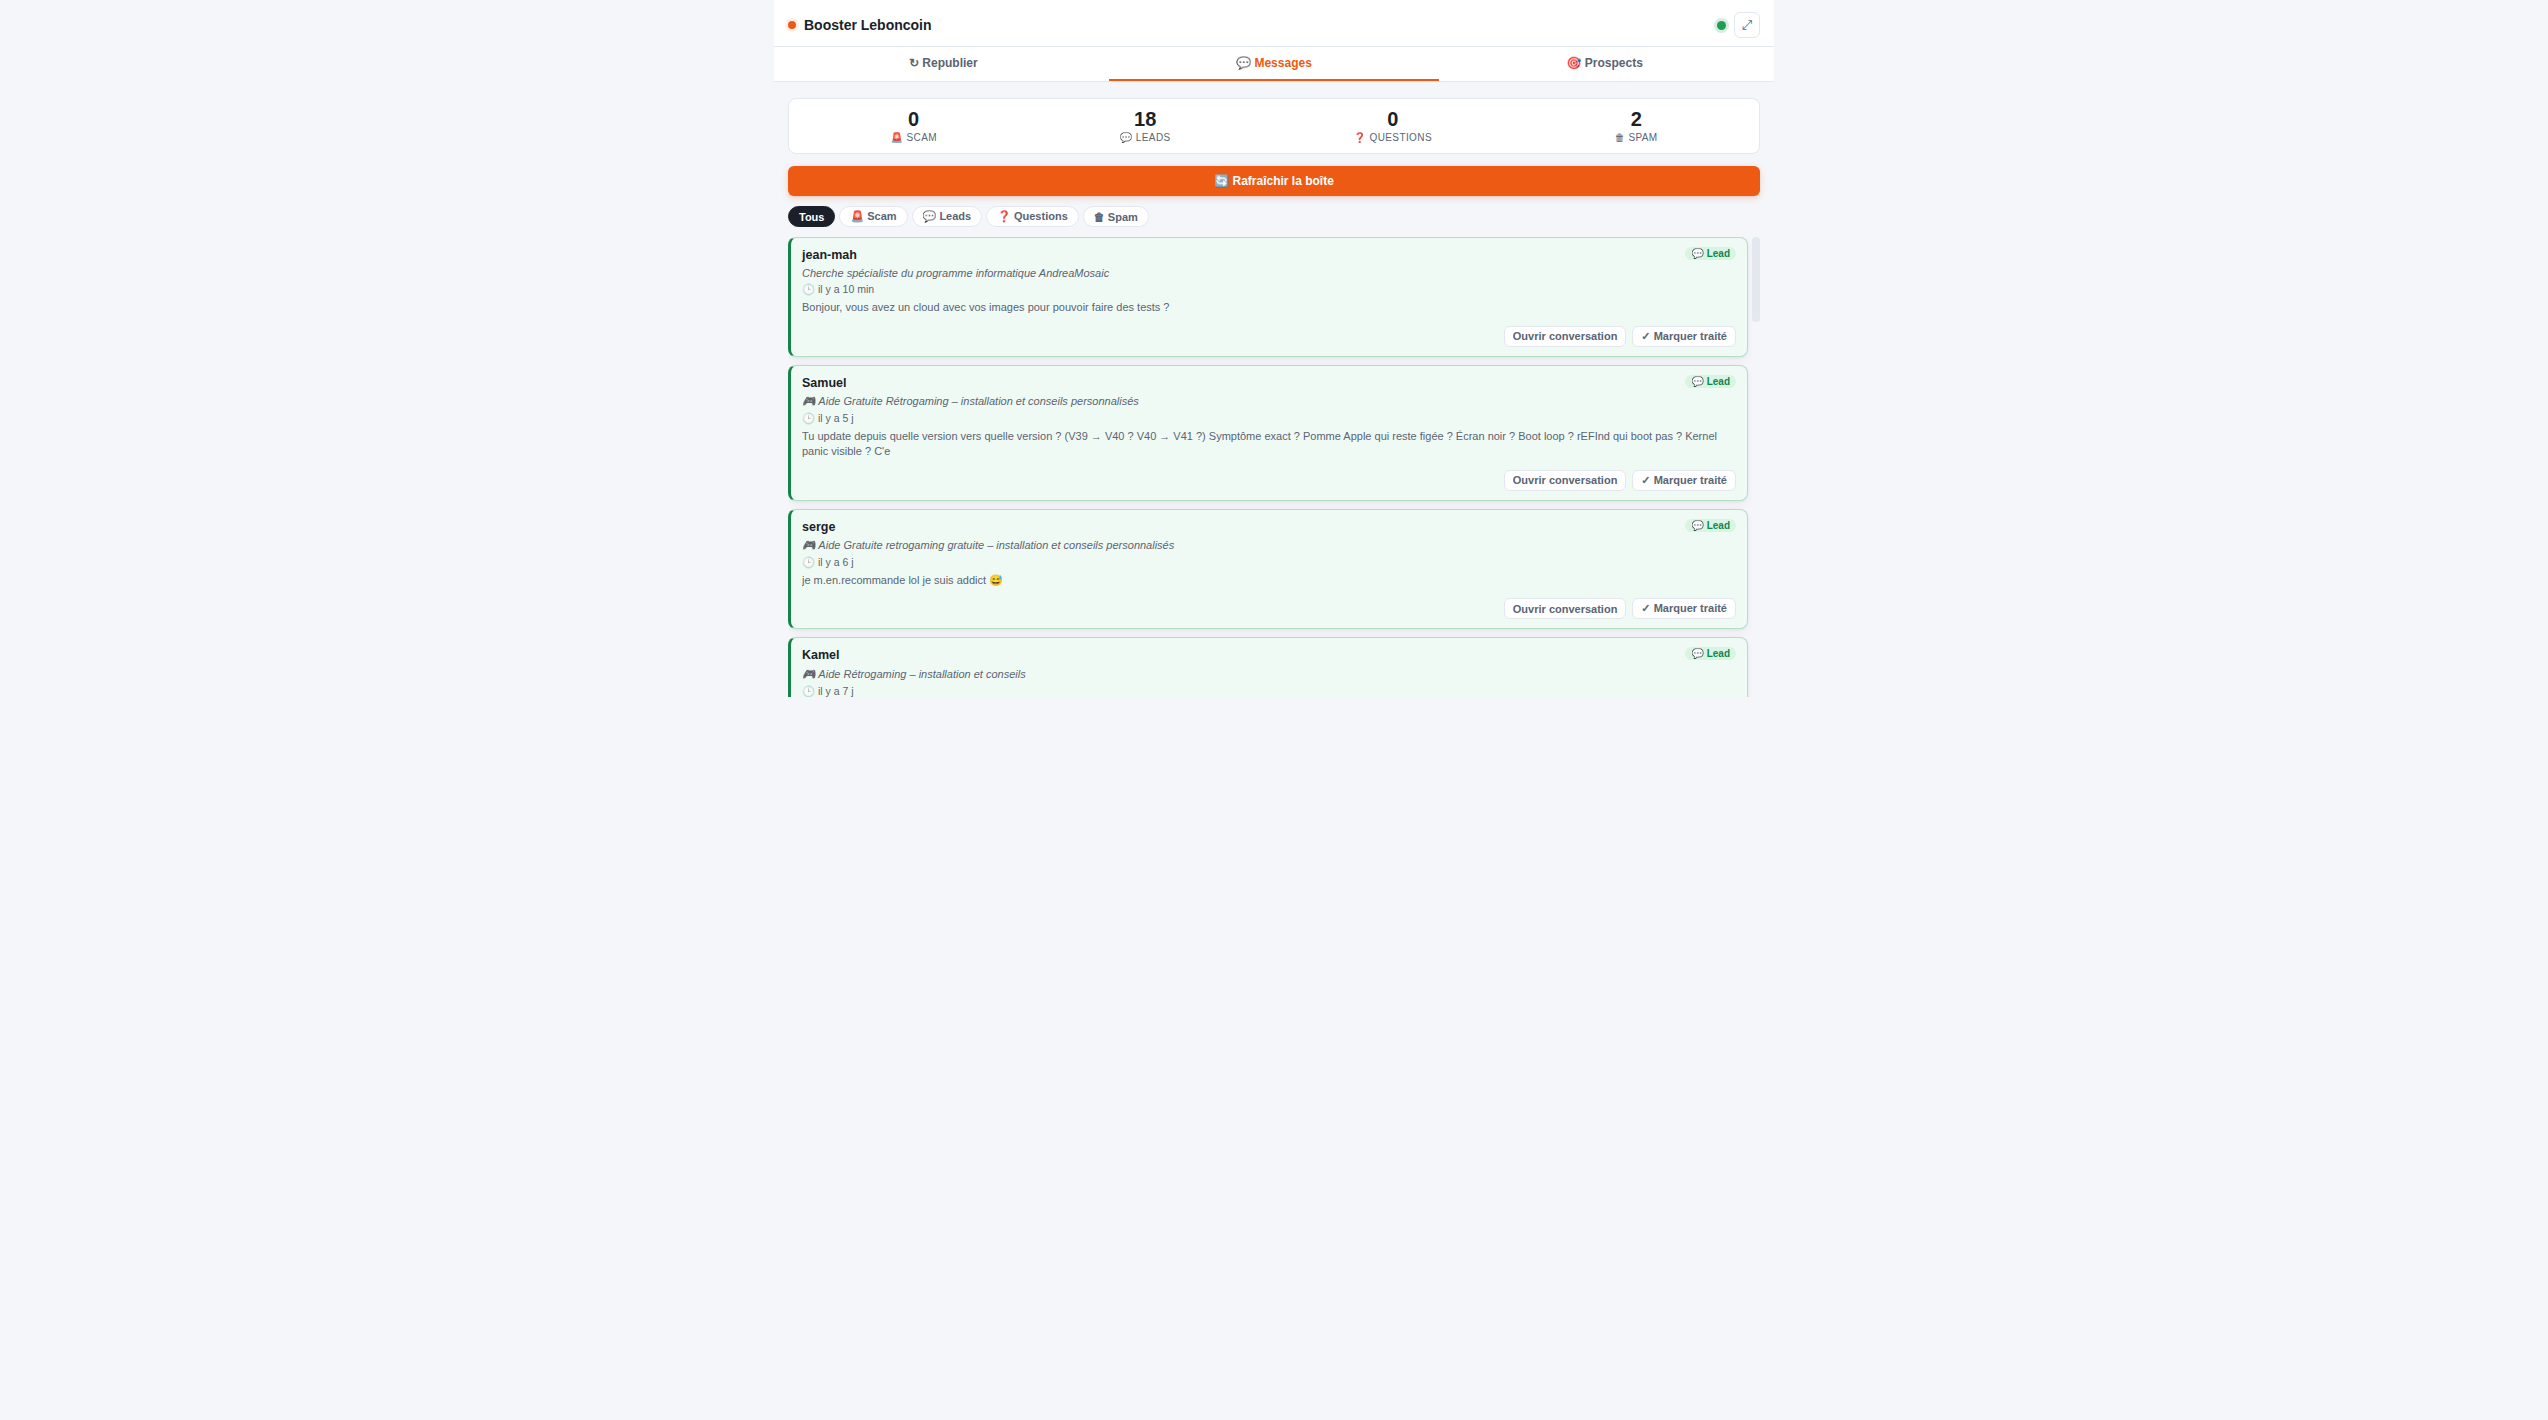
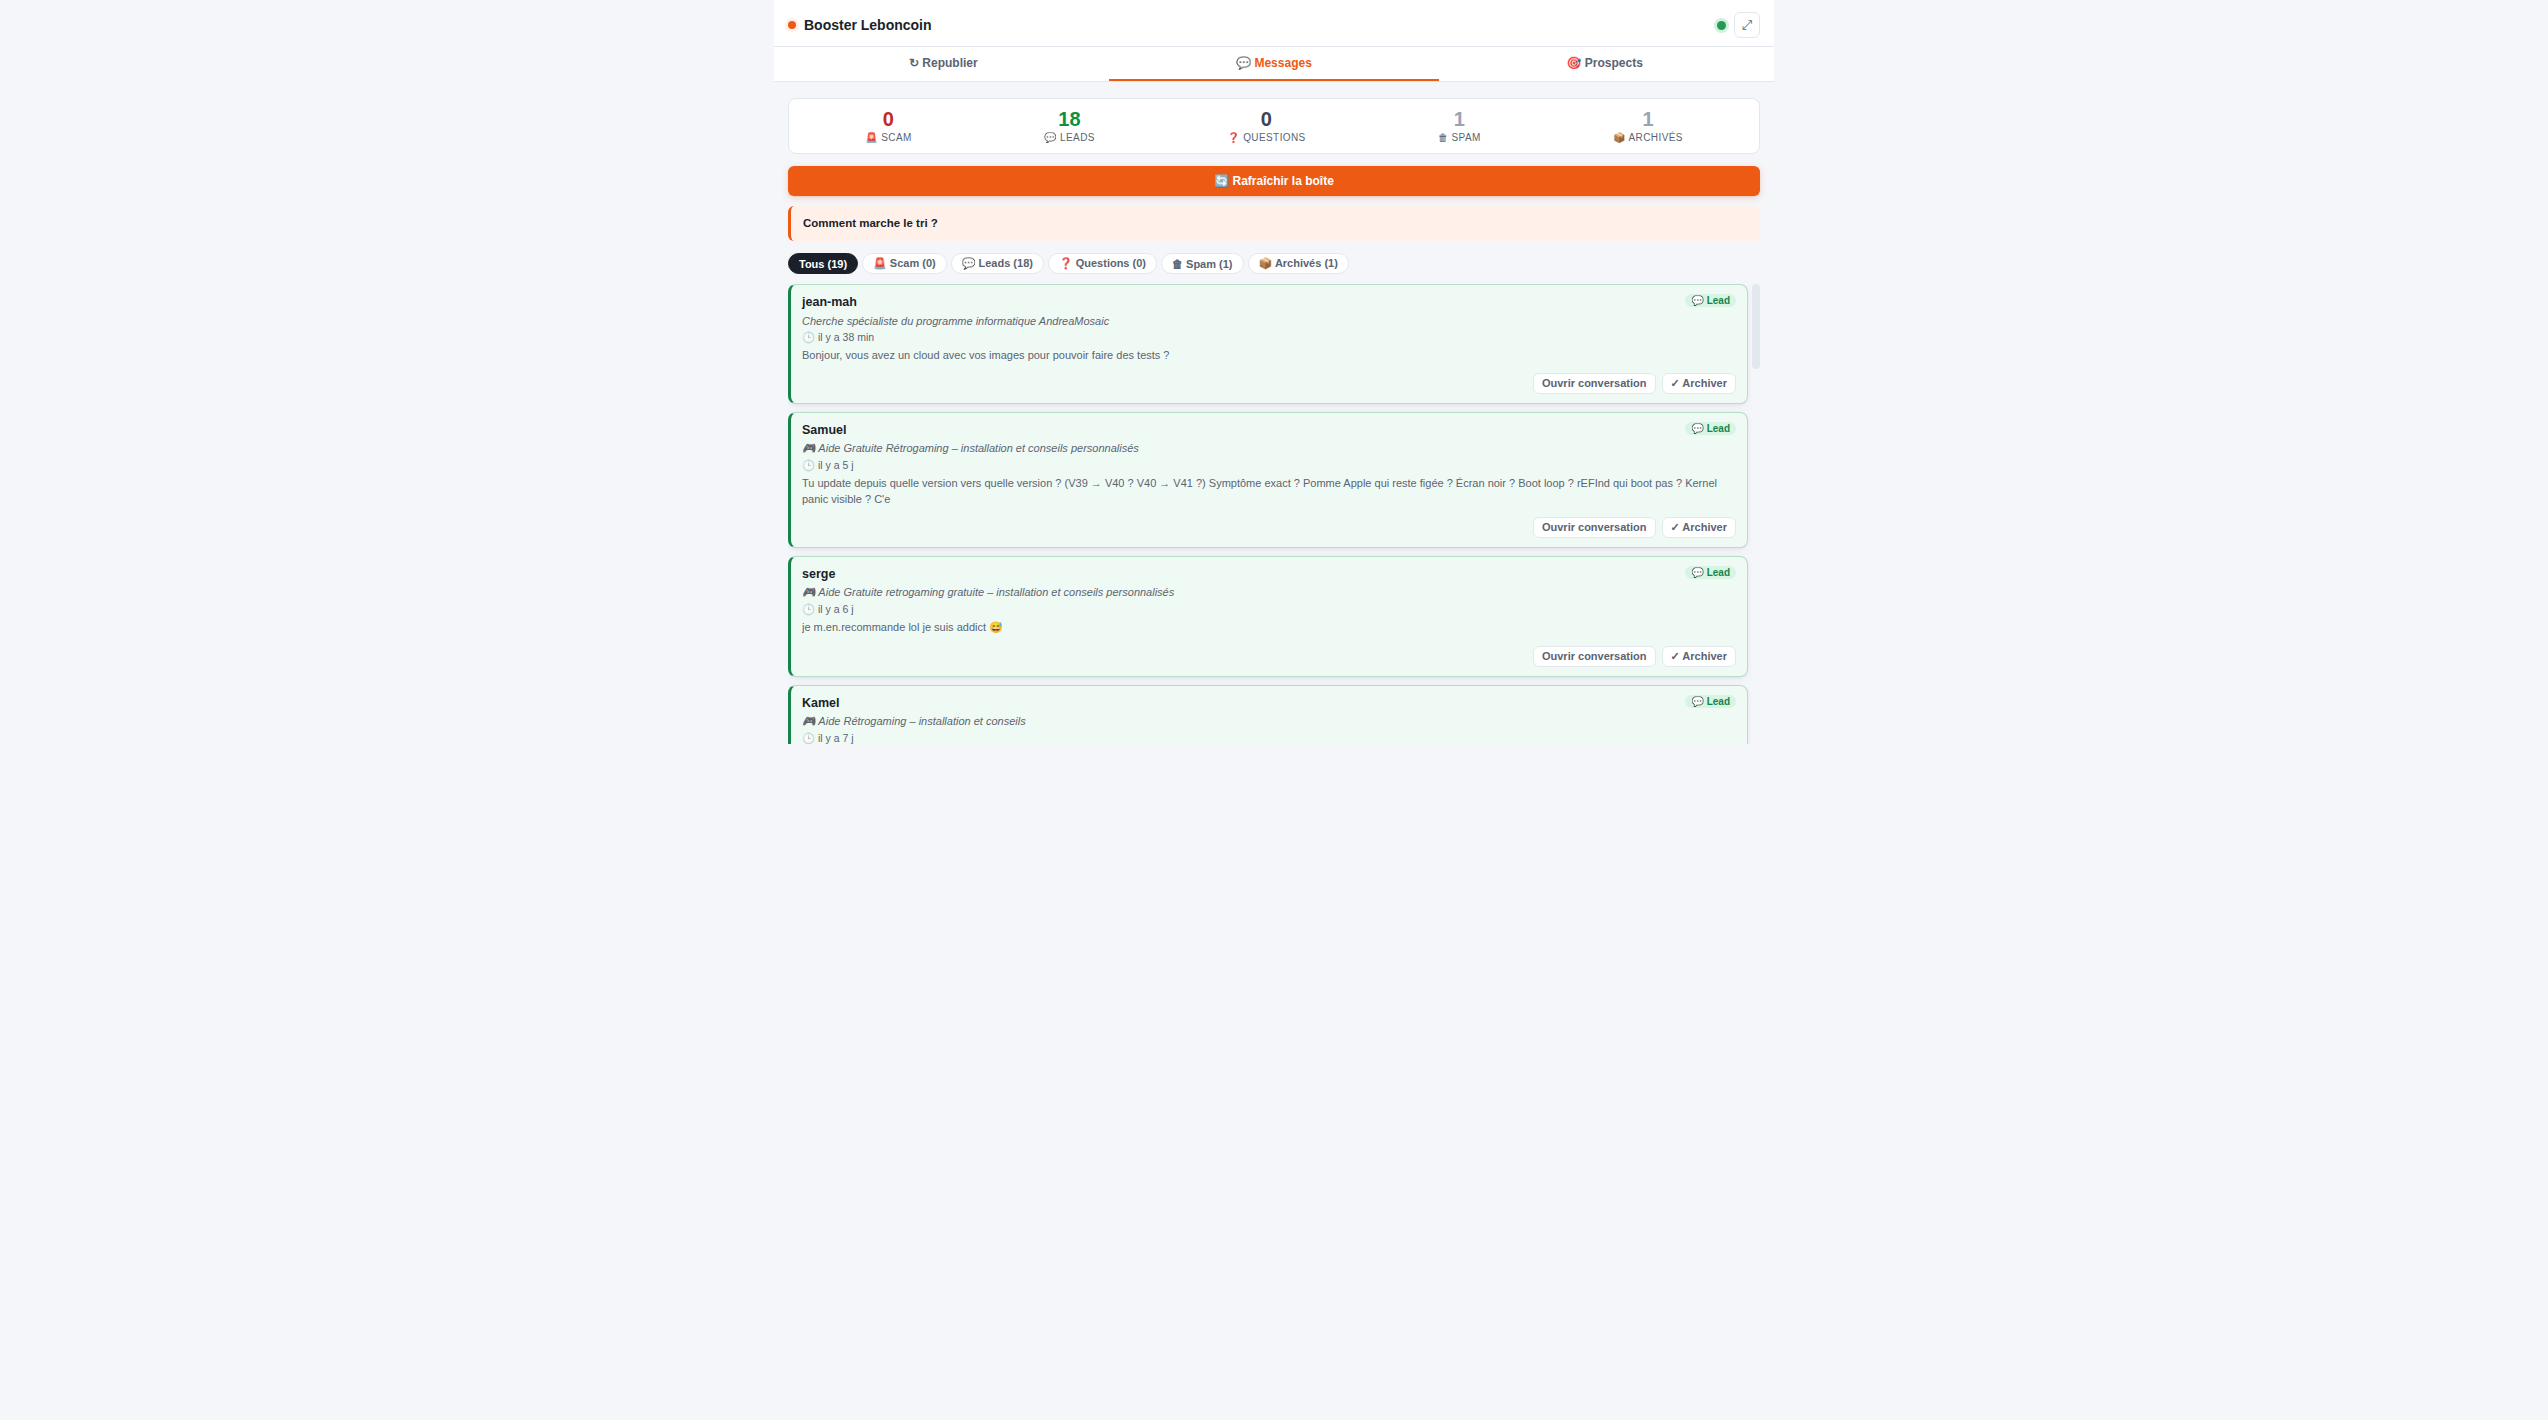
feat(messages): onglet Archivés + compteurs dynamiques + help block + fullpage hauteur
UX onglet Messages — note initiale C/C+, cible A :
- 'Marquer traité' → 'Archiver' avec tooltip clair (action locale,
  Leboncoin pas touché)
- Nouvel onglet 'Archivés' avec bouton Restaurer (handler INBOX_RESTORE
  côté SW, fire-and-forget identique à dismiss)
- Compteurs recalculés en excluant les archivés (résout le bug
  'Spam 2' alors que l'onglet Spam était vide)
- Compteur entre parenthèses sur chaque bouton-filtre
- Stats colorées par catégorie (rouge scam, vert lead, gris archived)
- 5e stat-cell 'Archivés'
- Help block <details> expliquant les 4 catégories + sémantique Archiver

Fullpage layout :
- html bg-soft sur tout le viewport (plus de white sur les côtés)
- Lists sans max-height en fullpage (croissent naturellement, page scroll)
- Largeur portée à 1100px max

Changed region(s): [[0.31, 0.1239, 0.6821, 0.5268], [0.6511, 0.1549, 0.6821, 0.1859], [0.3411, 0.093, 0.3721, 0.1239]]

diff --git a/popup/popup.js b/popup/popup.js
@@ -634,6 +634,20 @@ p.markSeen.addEventListener('click', async () => {
 
 let activeInboxFilter = 'all';
 
+// Returns counts of visible (non-archived) conversations per category, plus archived total.
+function computeVisibleCounts(all, dismissedSet) {
+  const counts = { scam: 0, lead: 0, question: 0, spam: 0, archived: 0 };
+  for (const conv of all) {
+    if (dismissedSet.has(conv.conversationId)) {
+      counts.archived++;
+    } else {
+      const cat = conv._classification?.category;
+      if (cat in counts) counts[cat]++;
+    }
+  }
+  return counts;
+}
+
 async function loadInbox() {
   const { inboxCache, inboxLastRun, inboxDismissed = [] } = await chrome.storage.local.get([
     'inboxCache', 'inboxLastRun', 'inboxDismissed'
@@ -651,18 +665,89 @@ async function loadInbox() {
   renderInbox(inboxCache, new Set(inboxDismissed));
 }
 
+function renderInboxCard(conv, dismissed, { isArchived = false } = {}) {
+  const cls = conv._classification || { category: 'lead', signals: [], confidence: 0 };
+  const cat = cls.category;
+
+  // Strip the "Nouveau message pour " prefix from subject for cleaner display
+  const subject = (conv.subject || '').replace(/^nouveau message pour ["«]?/i, '').replace(/["»]? sur leboncoin$/i, '');
+  const preview = (conv.lastMessagePreview || '').slice(0, 200);
+  const date = conv.lastMessageDate ? relativeTime(new Date(conv.lastMessageDate)) : '';
+  const badgeLabel = { scam: '🚨 Scam', lead: '💬 Lead', question: '❓ Question', spam: '🗑 Spam' }[cat] || cat;
+
+  const card = document.createElement('div');
+  card.className = `card cat-${cat}`;
+  card.innerHTML = `
+    <div class="card-top">
+      <span class="card-title">${escapeHtml(conv.partnerName || '(inconnu)')}</span>
+      <span class="badge cat-${cat}">${badgeLabel}</span>
+      ${conv.unseenCounter > 0 ? `<span class="badge new">${conv.unseenCounter} non lu</span>` : ''}
+    </div>
+    <div class="card-subject">${escapeHtml(subject)}</div>
+    ${date ? `<div class="card-meta"><span class="age">${escapeHtml(date)}</span></div>` : ''}
+    <div class="card-body">${escapeHtml(preview)}</div>
+    ${cls.signals.length ? `<div class="card-signals">Détecté : ${escapeHtml(cls.signals.map(s => s.replace(/-/g, ' ')).join(', '))}</div>` : ''}
+    <div class="card-actions">
+      <button class="btn ghost small open-conv-btn">Ouvrir conversation</button>
+      ${isArchived
+        ? `<button class="btn ghost small restore-btn">↩ Restaurer</button>`
+        : `<button class="btn ghost small dismiss-btn" title="Cache localement, ne supprime rien côté Leboncoin">✓ Archiver</button>`
+      }
+    </div>
+  `;
+
+  card.querySelector('.open-conv-btn').addEventListener('click', () => {
+    chrome.tabs.create({ url: `https://www.leboncoin.fr/messages/id/${conv.conversationId}` });
+  });
+
+  if (isArchived) {
+    card.querySelector('.restore-btn').addEventListener('click', async () => {
+      await chrome.runtime.sendMessage({ type: 'INBOX_RESTORE', convId: conv.conversationId });
+      card.remove();
+      dismissed.delete(conv.conversationId);
+    });
+  } else {
+    card.querySelector('.dismiss-btn').addEventListener('click', async () => {
+      await chrome.runtime.sendMessage({ type: 'INBOX_DISMISS', convId: conv.conversationId });
+      card.remove();
+      dismissed.add(conv.conversationId);
+    });
+  }
+
+  return card;
+}
+
 function renderInbox(cache, dismissed) {
-  const counts = cache?.counts || { scam: 0, lead: 0, question: 0, spam: 0 };
-  document.getElementById('m-stat-scam').textContent     = counts.scam     ?? '–';
-  document.getElementById('m-stat-lead').textContent     = counts.lead     ?? '–';
-  document.getElementById('m-stat-question').textContent = counts.question ?? '–';
-  document.getElementById('m-stat-spam').textContent     = counts.spam     ?? '–';
+  const all = cache?.all || [];
+  const counts = computeVisibleCounts(all, dismissed);
+
+  const total = counts.scam + counts.lead + counts.question + counts.spam;
+
+  // Update stat cells
+  document.getElementById('m-stat-scam').textContent     = all.length ? counts.scam     : '–';
+  document.getElementById('m-stat-lead').textContent     = all.length ? counts.lead     : '–';
+  document.getElementById('m-stat-question').textContent = all.length ? counts.question : '–';
+  document.getElementById('m-stat-spam').textContent     = all.length ? counts.spam     : '–';
+  document.getElementById('m-stat-archived').textContent = all.length ? counts.archived : '–';
+
+  // Update filter button labels with counts
+  const filterLabels = {
+    all:      `Tous (${total})`,
+    scam:     `🚨 Scam (${counts.scam})`,
+    lead:     `💬 Leads (${counts.lead})`,
+    question: `❓ Questions (${counts.question})`,
+    spam:     `🗑 Spam (${counts.spam})`,
+    archived: `📦 Archivés (${counts.archived})`,
+  };
+  document.querySelectorAll('.inbox-filter').forEach(btn => {
+    const label = filterLabels[btn.dataset.filter];
+    if (label) btn.textContent = label;
+  });
 
   const list = document.getElementById('m-list');
   const hint = document.getElementById('m-empty-hint');
   list.innerHTML = '';
 
-  const all = cache?.all || [];
   if (!all.length) {
     hint.hidden = false;
     hint.textContent = cache
@@ -672,10 +757,13 @@ function renderInbox(cache, dismissed) {
   }
   hint.hidden = true;
 
-  const visible = all.filter(c =>
-    !dismissed.has(c.conversationId) &&
-    (activeInboxFilter === 'all' || c._classification?.category === activeInboxFilter)
-  );
+  const isArchived = activeInboxFilter === 'archived';
+  const visible = all.filter(c => {
+    const archived = dismissed.has(c.conversationId);
+    if (isArchived) return archived;
+    if (archived) return false;
+    return activeInboxFilter === 'all' || c._classification?.category === activeInboxFilter;
+  });
 
   if (!visible.length) {
     hint.hidden = false;
@@ -684,42 +772,7 @@ function renderInbox(cache, dismissed) {
   }
 
   for (const conv of visible) {
-    const cls = conv._classification || { category: 'lead', signals: [], confidence: 0 };
-    const cat = cls.category;
-
-    // Strip the "Nouveau message pour " prefix from subject for cleaner display
-    const subject = (conv.subject || '').replace(/^nouveau message pour ["«]?/i, '').replace(/["»]? sur leboncoin$/i, '');
-    const preview = (conv.lastMessagePreview || '').slice(0, 200);
-    const date = conv.lastMessageDate ? relativeTime(new Date(conv.lastMessageDate)) : '';
-    const signalText = cls.signals.length ? `Détecté : ${cls.signals.map(s => s.replace(/-/g, ' ')).join(', ')}` : '';
-    const badgeLabel = { scam: '🚨 Scam', lead: '💬 Lead', question: '❓ Question', spam: '🗑 Spam' }[cat] || cat;
-
-    const card = document.createElement('div');
-    card.className = `card cat-${cat}`;
-    card.innerHTML = `
-      <div class="card-top">
-        <span class="card-title">${escapeHtml(conv.partnerName || '(inconnu)')}</span>
-        <span class="badge cat-${cat}">${badgeLabel}</span>
-        ${conv.unseenCounter > 0 ? `<span class="badge new">${conv.unseenCounter} non lu</span>` : ''}
-      </div>
-      <div class="card-subject">${escapeHtml(subject)}</div>
-      ${date ? `<div class="card-meta"><span class="age">${escapeHtml(date)}</span></div>` : ''}
-      <div class="card-body">${escapeHtml(preview)}</div>
-      ${signalText ? `<div class="card-signals">Détecté : ${escapeHtml(cls.signals.map(s => s.replace(/-/g, ' ')).join(', '))}</div>` : ''}
-      <div class="card-actions">
-        <button class="btn ghost small open-conv-btn">Ouvrir conversation</button>
-        <button class="btn ghost small dismiss-btn">✓ Marquer traité</button>
-      </div>
-    `;
-    card.querySelector('.open-conv-btn').addEventListener('click', () => {
-      chrome.tabs.create({ url: `https://www.leboncoin.fr/messages/id/${conv.conversationId}` });
-    });
-    card.querySelector('.dismiss-btn').addEventListener('click', async () => {
-      await chrome.runtime.sendMessage({ type: 'INBOX_DISMISS', convId: conv.conversationId });
-      card.remove();
-      dismissed.add(conv.conversationId);
-    });
-    list.appendChild(card);
+    list.appendChild(renderInboxCard(conv, dismissed, { isArchived }));
   }
 }
 

diff --git a/popup/popup.css b/popup/popup.css
@@ -13,6 +13,7 @@
 
 * { box-sizing: border-box; }
 html, body { margin: 0; padding: 0; }
+html { background: var(--bg-soft); min-height: 100%; }
 [hidden] { display: none !important; }
 body {
   font-family: -apple-system, BlinkMacSystemFont, "Inter", "Segoe UI", sans-serif;
@@ -24,13 +25,15 @@ body {
 
 /* Fullpage mode: when the popup is opened in a tab (?fullpage=1) */
 body.fullpage {
-  width: min(1000px, 95vw);
+  width: min(1100px, 95vw);
   margin: 0 auto;
   min-height: 100vh;
 }
-body.fullpage .log { height: 260px; }
-body.fullpage .prospect-list { max-height: 70vh; }
-body.fullpage .listings { max-height: 60vh; }
+/* In fullpage, lists grow naturally and the page scrolls — no scroll-within-scroll. */
+body.fullpage .log { height: auto; min-height: 200px; max-height: 60vh; }
+body.fullpage .prospect-list,
+body.fullpage .listings,
+body.fullpage .inbox-list { max-height: none; }
 
 header {
   display: flex; align-items: center; justify-content: space-between;
@@ -443,6 +446,22 @@ details.section[open] > summary h2.section-title::before {
 .inbox-filter.active { background: var(--ink); color: var(--bg); border-color: var(--ink); }
 .inbox-filter.cat-scam-filter.active { background: #c12a2a; border-color: #c12a2a; }
 .inbox-filter.cat-lead-filter.active { background: var(--green); border-color: var(--green); }
+.inbox-filter.cat-archived-filter.active { background: #6b7280; border-color: #6b7280; }
+
+/* Stat number colors per category */
+.inbox-meta .stat .n.stat-scam     { color: #c12a2a; }
+.inbox-meta .stat .n.stat-lead     { color: #0e8f3c; }
+.inbox-meta .stat .n.stat-question { color: #3d4451; }
+.inbox-meta .stat .n.stat-spam     { color: #9aa3b0; }
+.inbox-meta .stat .n.stat-archived { color: #9aa3b0; }
+
+/* score-help as a <details> element */
+.score-help summary {
+  cursor: pointer; user-select: none;
+  list-style: none;
+}
+.score-help summary::-webkit-details-marker { display: none; }
+.score-help summary strong { color: var(--ink); }
 
 .inbox-list {
   max-height: 460px; overflow-y: auto;

diff --git a/popup/popup.html b/popup/popup.html
@@ -99,10 +99,11 @@
   <section class="panel" data-panel="messages" role="tabpanel" id="panel-messages">
 
     <div class="inbox-meta">
-      <div class="stat"><span class="n" id="m-stat-scam">–</span><span class="l">🚨 Scam</span></div>
-      <div class="stat"><span class="n" id="m-stat-lead">–</span><span class="l">💬 Leads</span></div>
-      <div class="stat"><span class="n" id="m-stat-question">–</span><span class="l">❓ Questions</span></div>
-      <div class="stat"><span class="n" id="m-stat-spam">–</span><span class="l">🗑 Spam</span></div>
+      <div class="stat"><span class="n stat-scam" id="m-stat-scam">–</span><span class="l">🚨 Scam</span></div>
+      <div class="stat"><span class="n stat-lead" id="m-stat-lead">–</span><span class="l">💬 Leads</span></div>
+      <div class="stat"><span class="n stat-question" id="m-stat-question">–</span><span class="l">❓ Questions</span></div>
+      <div class="stat"><span class="n stat-spam" id="m-stat-spam">–</span><span class="l">🗑 Spam</span></div>
+      <div class="stat"><span class="n stat-archived" id="m-stat-archived">–</span><span class="l">📦 Archivés</span></div>
     </div>
 
     <div class="row" style="margin-bottom: 10px;">
@@ -114,12 +115,25 @@
       <div class="banner-content" id="m-error-text"></div>
     </div>
 
+    <details class="score-help" id="m-help">
+      <summary><strong>Comment marche le tri ?</strong></summary>
+      <ul>
+        <li>🚨 <strong>Scam</strong> — patterns d'arnaque détectés (mandat cash, QR, numéro étranger, WhatsApp, lien externe…)</li>
+        <li>💬 <strong>Lead</strong> — message substantiel, vraie question → à traiter</li>
+        <li>❓ <strong>Question</strong> — "toujours dispo ?" et variantes, faible valeur</li>
+        <li>🗑 <strong>Spam</strong> — message vide ou émoji seul</li>
+      </ul>
+      <p><strong>Archiver</strong> = cacher de la liste, <em>local uniquement</em>. Aucun impact côté Leboncoin. Visible dans l'onglet 📦 Archivés.</p>
+      <p>Le tri est <strong>heuristique</strong> : un faux positif scam est possible si le message contient un mot-clé sensible. Survole le détail "Détecté : …" sous chaque card pour comprendre.</p>
+    </details>
+
     <div class="inbox-filter-tabs" role="tablist">
       <button class="inbox-filter active" data-filter="all">Tous</button>
       <button class="inbox-filter cat-scam-filter" data-filter="scam">🚨 Scam</button>
       <button class="inbox-filter cat-lead-filter" data-filter="lead">💬 Leads</button>
       <button class="inbox-filter cat-question-filter" data-filter="question">❓ Questions</button>
       <button class="inbox-filter cat-spam-filter" data-filter="spam">🗑 Spam</button>
+      <button class="inbox-filter cat-archived-filter" data-filter="archived">📦 Archivés</button>
     </div>
 
     <p class="section-hint" id="m-empty-hint">

diff --git a/background.js b/background.js
@@ -138,6 +138,18 @@ chrome.runtime.onMessage.addListener((msg, _sender, sendResponse) => {
     })();
     return false;
   }
+  if (msg.type === 'INBOX_RESTORE') {
+    respond({ ok: true });
+    (async () => {
+      try {
+        const { inboxDismissed = [] } = await chrome.storage.local.get('inboxDismissed');
+        const next = new Set(inboxDismissed);
+        next.delete(msg.convId);
+        await chrome.storage.local.set({ inboxDismissed: [...next] });
+      } catch (e) { console.warn('INBOX_RESTORE failed:', e); }
+    })();
+    return false;
+  }
   if (msg.type === 'MARK_PROSPECTS_SEEN') {
     respond({ ok: true });
     (async () => {